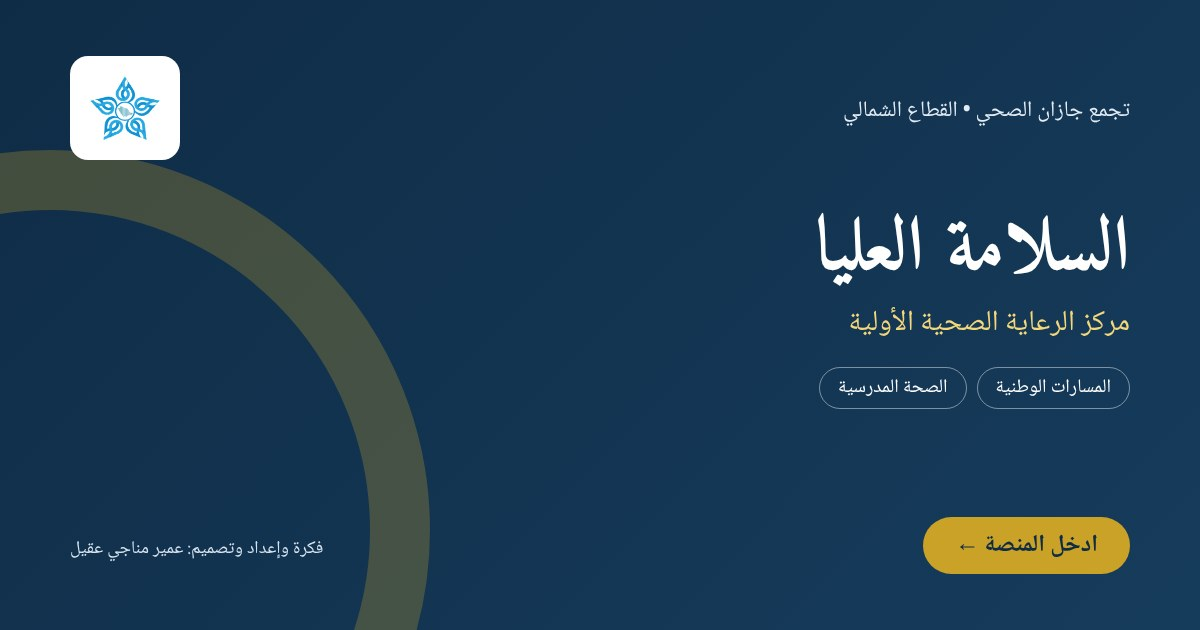
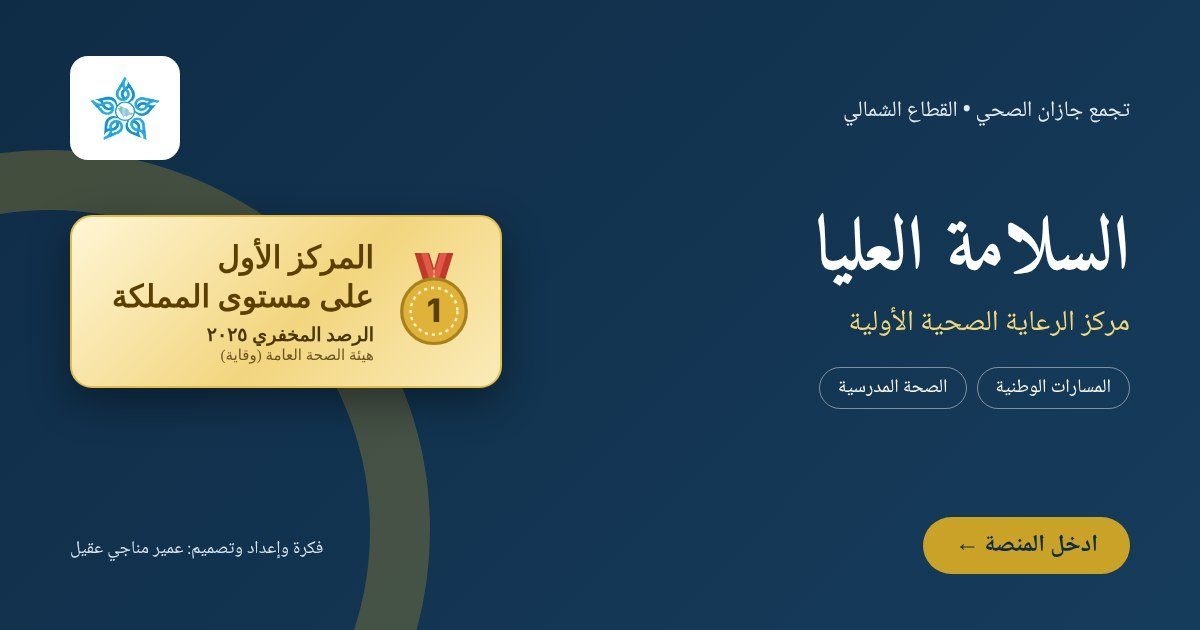
بوابة السلامة: شارة المركز الأول في صورة معاينة الواتساب
Claude-Session: https://claude.ai/code/session_015cp3qHVE6rKM27JBUiXvHi

Changed region(s): [[0.0308, 0.3317, 0.4317, 0.6333], [0.0925, 0.181, 0.1233, 0.2111]]

diff --git a/salama-hub/index.html b/salama-hub/index.html
@@ -4,7 +4,7 @@
 <title>مركز السلامة العليا</title>
 <meta name="description" content="بوابة مركز الرعاية الصحية الأولية بالسلامة العليا — المسارات الوطنية والصحة المدرسية">
 <meta property="og:type" content="website"><meta property="og:title" content="مركز الرعاية الصحية الأولية بالسلامة العليا"><meta property="og:description" content="المسارات الوطنية والصحة المدرسية — تجمع جازان الصحي، القطاع الشمالي">
-<meta property="og:image" content="https://salama.jazan-north.workers.dev/og.jpg"><meta property="og:image:width" content="1200"><meta property="og:image:height" content="630"><meta property="og:url" content="https://salama.jazan-north.workers.dev/"><meta property="og:locale" content="ar_SA"><meta name="twitter:card" content="summary_large_image">
+<meta property="og:image" content="https://salama.jazan-north.workers.dev/og.jpg?v=2"><meta property="og:image:width" content="1200"><meta property="og:image:height" content="630"><meta property="og:url" content="https://salama.jazan-north.workers.dev/"><meta property="og:locale" content="ar_SA"><meta name="twitter:card" content="summary_large_image">
 <link rel="preconnect" href="https://fonts.googleapis.com"><link rel="stylesheet" href="https://fonts.googleapis.com/css2?family=Amiri:wght@400;700&family=Noto+Naskh+Arabic:wght@400;600;700&display=swap">
 <style>
 :root{--bg:#F4F6F8;--surface:#fff;--ink:#17212B;--muted:#5E6B78;--line:#DCE3EA;--soft:#EEF3F7;--band:#0F2C46;--band-ink:#fff;--strip:#E6EDF4;--strip-ink:#0F2C46;--th:#14808A;--gold:#C9A227;--term:#F3D77A;--navy:#0F2C46;--ok:#237A49;--warn:#9A6200;--bad:#B5352A;--bad-bg:#FADBD8;--accent:#1D8FC4;--sh:#17709B;--shadow:0 1px 2px rgba(15,44,70,.06),0 8px 22px rgba(15,44,70,.08);
